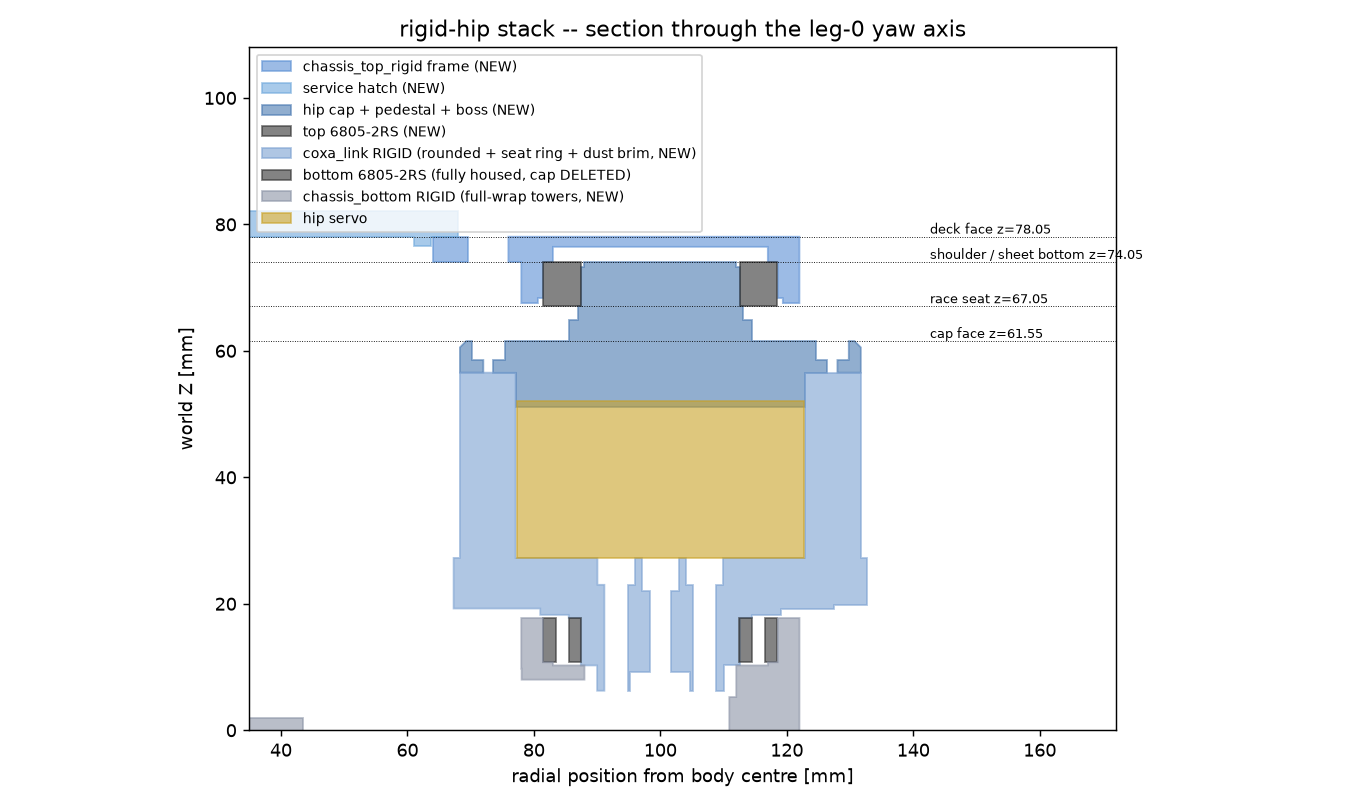
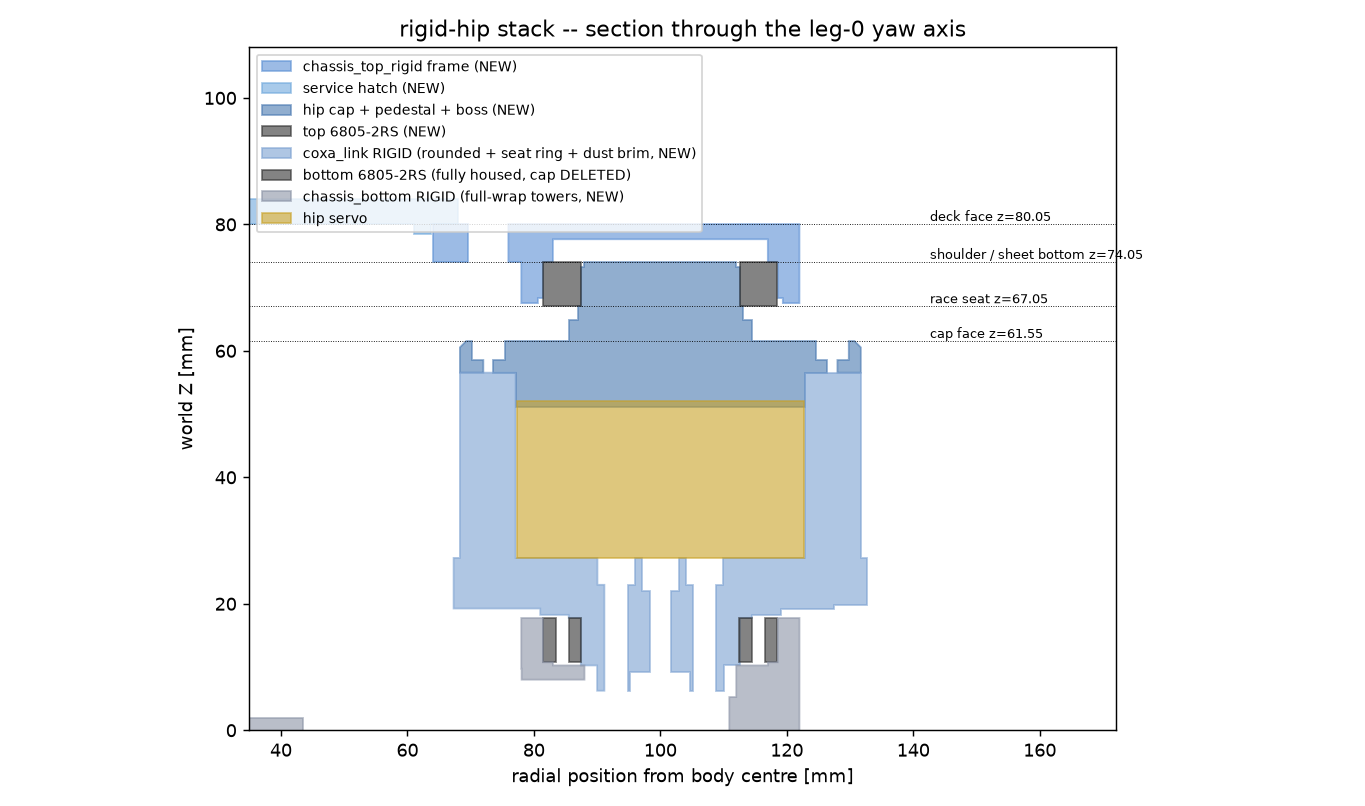
rigid_hip: top sheet 50% thicker (4->6mm) + buildviz mirror staleness guard
With the pillars gone the top plate alone carries the hip-moment
couple, so TOP_PLATE_T goes 4 -> 6 mm (user).  The sheet underside
stays pinned to the race-top plane (74.05, where the pockets seat);
the extra 2 mm grows upward, deck face 78.05 -> 80.05.  The dust roof
scales with it (BR_ROOF_T 1.6 -> 2.4; the rotating boss tip now keeps
3.6 mm of air, roof solid/air probes still asserted 6/6), the hatch
screws grow M3x14 -> M3x16 (lid 4 + sheet 6 + 0.3 air + 5.7 insert),
standoff stacks ~76 -> ~78 mm.  The hatch lid stays 4 mm and the
under-frame insert bosses still attach at the unmoved 74.05 plane.
Femur up-limit re-swept: unchanged at -47.5 deg.

tools/push_cloud_buildviz.py: refuse to mirror a stale push-cache --
if the registered buildDir has a newer scene.json than the cache
(the `register`-without-`push` state that re-shipped a day-old
un-roofed plate to the cloud hub earlier today), fail loudly with
the exact push command to run first.  Verified both paths.

Changed region(s): [[0.3692, 0.2792, 0.5846, 0.3102], [0.6769, 0.2481, 0.7692, 0.3102], [0.1846, 0.2792, 0.3385, 0.3102]]

diff --git a/hexapod_walker/prototype_sts3215/concepts/rigid_hip/make_rigid_hip_variant.py b/hexapod_walker/prototype_sts3215/concepts/rigid_hip/make_rigid_hip_variant.py
@@ -13,7 +13,8 @@ pair.  This variant closes the loop from the TOP:
     interference the lower hub boss already uses) that a third 6805-2RS
     presses onto.  Knee caps stay stock.
   * ``chassis_top_rigid`` -- a SECOND 200 mm flat-to-flat hex plate
-    (same footprint/thickness as chassis_bottom's sheet) whose six
+    (same footprint as chassis_bottom's sheet, 50% thicker at 6 mm
+    since the pillar delete left it alone in the load path) whose six
     Phi 44 bosses pocket the bearings' outer races at Phi 37.15
     (= ``YAW_TOWER_BORE_OD``, the bench-tuned firm finger-press fit),
     race retained by the Phi 34 shoulder (= ``YAW_TOWER_SHOULDER_OD``).
@@ -177,15 +178,26 @@ POCKET_LEADIN = 0.8                       # pocket-mouth lead-in (per side)
 # face -- the whole ring top is one flush surface ("all go up to the
 # same height") and dirt cannot reach the bearing from above.  The
 # roof is thinner than the sheet so the rotating parts keep an air gap
-# under it: tip top 74.05, roof underside 76.45 -> 2.4 mm running
+# under it: tip top 74.05, roof underside 77.65 -> 3.6 mm running
 # clearance (asserted >= BR_ROOF_MIN_CL in check_yaw_sweep).
-BR_ROOF_T = 1.6                           # roof thickness (prints flat on
-                                          # the bed: the plate prints deck
-                                          # face down, so the pocket is now
-                                          # a true blind bore, no bridging)
+BR_ROOF_T = 2.4                           # roof thickness, scaled with the
+                                          # 6 mm sheet (was 1.6 on the 4 mm
+                                          # sheet; prints flat on the bed:
+                                          # the plate prints deck face down,
+                                          # so the pocket is a true blind
+                                          # bore, no bridging)
 BR_ROOF_MIN_CL = 0.5                      # min rotating-vs-roof air gap
 
-PLATE_T = hp.CHASSIS_PLATE_T              # 4 -- same sheet as chassis_bottom
+PLATE_T = hp.CHASSIS_PLATE_T              # 4 -- bottom sheet + hatch lid
+# TOP PLATE 50% THICKER (user, Aug 26 pm, after the pillar delete: "make
+# it say 50% thicker now that the pillars are gone").  With no rim
+# pillars the top plate alone carries the hip-moment couple between the
+# six bearing towers, so the sheet goes 4 -> 6 mm.  The sheet UNDERSIDE
+# is pinned to the race-top/shoulder plane (74.05, that is where the
+# pockets seat), so the extra 2 mm grows UPWARD: deck face 78.05 ->
+# 80.05.  The hatch LID stays at PLATE_T = 4 (it is not in the bearing
+# load path; keeping it thin keeps the lid light and the screws short).
+TOP_PLATE_T = 1.5 * hp.CHASSIS_PLATE_T    # 6 -- top frame sheet only
 CENTRE_HOLE_D = 40.0                      # wiring / standoff-wrench access
 HOLE_D = hp.BRACKET_BOLT_HOLE             # 3.4 -- M3 clearance
 ACCESS_HOLE_D = 7.0                       # driver pass-through above the
@@ -236,8 +248,8 @@ HATCH_EAR_OD = 9.0                        # round lid ears around the screws:
 # bosses hanging under the frame sheet at the hatch-screw stations.
 # The insert installs from BELOW, so screw tension pulls it against
 # the sheet (compression -- the strong direction).  Screw stack: lid 4
-# + sheet 4 + 0.3 air + 5.7 insert = M3x14, tip flush at the boss
-# bottom.
+# + sheet 6 + 0.3 air + 5.7 insert = M3x16, tip flush at the boss
+# bottom.  (Was M3x14 on the 4 mm sheet.)
 INSERT_BORE_OD = 4.0                      # install bore for the M3 insert
 INSERT_LEN = 5.7                          # insert length (flush at the
                                           # boss BOTTOM face)
@@ -655,7 +667,7 @@ BR_BOT_W = CAP_FACE_W + PED_H             # 67.05 -- race bottom / seat
 BR_TOP_W = BR_BOT_W + BEARING_W           # 74.05 -- race top / shoulder
 RING_BOT_W = BR_BOT_W + RING_BOT_CL       # 67.55 -- ring bottom face
 SHEET_Z0 = BR_TOP_W                       # sheet bottom = race top plane
-SHEET_Z1 = SHEET_Z0 + PLATE_T             # 78.05 -- deck face
+SHEET_Z1 = SHEET_Z0 + TOP_PLATE_T         # 80.05 -- deck face (6 mm sheet)
 
 APOTHEM = hp.CHASSIS_FLAT_TO_FLAT / 2.0   # 100 -- yaw axes sit ON this line
 
@@ -1059,7 +1071,7 @@ def check_static(meshes: dict[str, trimesh.Trimesh]) -> None:
         "frame insert boss missing under a hatch screw"
     assert not frame.contains(np.asarray(p_air)).any(), \
         "frame insert boss pokes past the opening wall (lip collision)"
-    print(f"  hatch screws: 6x M3x14 into Phi {INSERT_BORE_OD:g} insert "
+    print(f"  hatch screws: 6x M3x16 into Phi {INSERT_BORE_OD:g} insert "
           f"bores in Phi {FRAME_BOSS_OD:g} under-frame bosses "
           f"(bore wall to opening {HATCH_SCREW_RHO - INSERT_BORE_OD / 2.0 - open_vertex_r:.2f} mm)")
     # A Phi 6.5 driver shaft dropped through the L0 hole down to the cap

diff --git a/hexapod_walker/prototype_sts3215/tools/push_cloud_buildviz.py b/hexapod_walker/prototype_sts3215/tools/push_cloud_buildviz.py
@@ -81,7 +81,28 @@ def main() -> int:
     build_dir = CACHE / args.build_id
     meta = json.loads((build_dir / "meta.json").read_text())
     version = meta.get("defaultVersion", "main")
-    scene = json.loads((build_dir / "scene.json").read_text())
+    scene_file = build_dir / "scene.json"
+    scene = json.loads(scene_file.read_text())
+
+    # Staleness guard (incident 2026-08-26: `buildviz register` serves the
+    # live buildDir but does NOT refresh this push-cache, so the mirror
+    # re-shipped a day-old snapshot).  If the registered buildDir has a
+    # newer scene.json than the cache, refuse to mirror the stale copy.
+    registry = BUILDVIZ_HOME / "registry.json"
+    if registry.exists():
+        for entry in json.loads(registry.read_text()).get("builds", []):
+            if entry.get("id") != args.build_id:
+                continue
+            live = Path(entry.get("buildDir", "")) / "scene.json"
+            if live.exists() and \
+                    live.stat().st_mtime > scene_file.stat().st_mtime + 1.0:
+                print(f"push_cloud_buildviz: cache for '{args.build_id}' is "
+                      f"STALE -- the registered buildDir has a newer "
+                      f"scene.json ({live}).\nRun `npx buildviz push "
+                      f"--build-id {args.build_id} --upload-assets --scene "
+                      f"{live}` first, then re-run this mirror.",
+                      file=sys.stderr)
+                return 1
 
     assets = []
     for mesh in scene.get("meshes", []):

diff --git a/hexapod_walker/prototype_sts3215/concepts/rigid_hip/README.md b/hexapod_walker/prototype_sts3215/concepts/rigid_hip/README.md
@@ -10,14 +10,18 @@ servo — is a cantilever.  This variant closes the structure from the top:
   press boss that a **third 6805-2RS** presses onto.  The boss lands on
   solid flange-bar material, >9 mm clear of the cap's M3 counterbores.
   Knee caps stay stock.
-* **`chassis_top_rigid`** (print 1): a second 200 mm flat-to-flat, 4 mm
-  hex FRAME (same footprint/thickness as chassis_bottom's sheet).  Six
+* **`chassis_top_rigid`** (print 1): a second 200 mm flat-to-flat hex
+  FRAME, **6 mm thick — 50% thicker than chassis_bottom's 4 mm sheet**
+  (user, Aug 26 pm, after the pillar delete: with no rim columns the
+  plate alone carries the hip-moment couple, so it grows 4 → 6; the
+  underside stays pinned to the race-top plane at 74.05 and the extra
+  2 mm grows upward, deck face 78.05 → 80.05).  Six
   Φ44 full-height bosses pocket the bearings' outer races from below at
   Φ37.15, each race retained by a complete 360° Φ34 shoulder, and each
-  bearing sealed from above by a **1.6 mm integral dust roof** flush
+  bearing sealed from above by a **2.4 mm integral dust roof** flush
   with the deck (user, Aug 26: the whole ring top is one continuous
   surface; the roof is thinner than the sheet so the rotating boss tip
-  keeps a 2.4 mm air gap under it).  A large
+  keeps a 3.6 mm air gap under it).  A large
   hex chunk of the middle (128 mm across flats) is cut out for the
   service hatch; the 140 mm `chassis_top` is not used in this variant.
 * **`top_hatch_rigid`** (print 1): a removable 4 mm hex lid over the
@@ -467,7 +471,7 @@ build had.
 | hip axis | 49.65 | 44.65 | **39.65** |
 | hip cap face | 71.55 | 66.55 | **61.55** |
 | top-plate race seat | 77.05 | 72.05 | **67.05** |
-| top sheet | 84.05..88.05 | 79.05..83.05 | **74.05..78.05** |
+| top sheet | 84.05..88.05 (4 mm) | 79.05..83.05 (4 mm) | **74.05..80.05 (6 mm since Aug 26)** |
 
 The horn mount interface AT the horn is untouched: same bolt
 pattern, same tip depths, same engagement — the head-access shafts
@@ -482,7 +486,7 @@ inside the seat ring + brim envelope, and the slab-to-rim clearance.
 Everything above rides down with the cradle (14 mm total vs the
 production-coxa stack, 5 mm vs the M3×25 build): hip axis 53.65 →
 49.65 → 44.65 → **39.65**, hip cap face → **61.55**, top-plate race
-seat → **67.05**, sheet → **74.05..78.05**.
+seat → **67.05**, sheet → **74.05..80.05** (6 mm since Aug 26).
 The robot's top deck drops 14 mm vs the pre-shortening build
 — a shorter, stiffer sandwich (same members, less column length).
 
@@ -494,8 +498,8 @@ The robot's top deck drops 14 mm vs the pre-shortening build
 | 67.05 | pedestal top = inner-race seat |
 | 67.55 | plate ring bottom (0.5 clearance over the race seat) |
 | 74.05 | race top = Φ34 shoulder = sheet bottom = boss tip top |
-| 76.45 | dust-roof underside (2.4 mm air over the rotating tip) |
-| 78.05 | deck face = dust-roof top (flush, one continuous surface) |
+| 77.65 | dust-roof underside (3.6 mm air over the rotating tip) |
+| 80.05 | deck face = dust-roof top (flush; the 6 mm sheet grows UP from the pinned 74.05 underside) |
 
 (All five planes are 14 mm lower than the pre-shortening build — 4 mm
 from the rev-3 skirt/platform delete, 5 mm from the Aug-24 M3×25
@@ -517,7 +521,7 @@ the bearing rings are):
 * **Lid**: 4 mm hex (136 across flats) sitting ON the deck face with a
   1.5 mm registration lip dropping just inside the opening (0.3 mm/side
   clearance — straight drop-in verified at build time).
-* **Retention**: 6× M3×14 button-heads that pass through the lid AND
+* **Retention**: 6× M3×16 button-heads that pass through the lid AND
   the frame sheet into **brass heat-set inserts in Φ10 bosses under
   the frame** (user, Aug 26: the lid comes off "a lot", so no screw
   ever cycles a printed thread — steel-into-brass survives unlimited
@@ -536,9 +540,10 @@ the bearing rings are):
   drop-in clearance — probed), and takes its insert **from below**:
   screw tension then pulls the insert *against* the sheet
   (compression, the strong direction) instead of along its knurl.
-  Stack: lid 4 + sheet 4 + 0.3 air + 5.7 insert = **M3×14**, tip
-  flush with the boss bottom.  The Φ9 lid ears cover the hole where
-  the bare lid corner (78.52) falls short.
+  Stack: lid 4 + sheet 6 + 0.3 air + 5.7 insert = **M3×16**, tip
+  flush with the boss bottom (was M3×14 on the 4 mm sheet).  The Φ9
+  lid ears cover the hole where the bare lid corner (78.52) falls
+  short.
 * **Interior access** = remove 10 screws (6 perimeter + 4 standoff)
   and lift the lid — the frame, bearings and legs are untouched.  The
   disc-horn clamp screws under the rings still need the full
@@ -657,8 +662,8 @@ variation only moves parts that stay outboard/below the plate.
   deck-level tower ledges
 * **−6 `yaw_bearing_cap` prints and −18 M3×8 cap join screws** — the
   cap is deleted (see "One tower-seated bottom bearing")
-* 4× M3 standoff stacks, ~76 mm (bottom sheet top z≈2 → hatch underside
-  78.05; e.g. 40+36 F-F, or M3 threaded rod in printed sleeves) + M3
+* 4× M3 standoff stacks, ~78 mm (bottom sheet top z≈2 → hatch underside
+  80.05; e.g. 40+38 F-F, or M3 threaded rod in printed sleeves) + M3
   screws down through the hatch into the stack tops — **non-structural**
   in this variant (hatch/electronics anchors only)
 * **6× M3 brass heat-set inserts** (~5.7 mm long, e.g. Ruthex RX-M3
@@ -666,8 +671,8 @@ variation only moves parts that stay outboard/below the plate.
   bosses — printed Φ4.0 through-bores with melt-relief counterbores;
   install from BELOW with a soldering iron (~230 °C for PETG) with
   the frame flipped on the bench, flush with the boss bottom face
-* 6× M3×14 button-heads for the hatch perimeter (through lid + frame
-  into the frame-boss inserts; lid 4 + sheet 4 + 0.3 air + 5.7
+* 6× M3×16 button-heads for the hatch perimeter (through lid + frame
+  into the frame-boss inserts; lid 4 + sheet 6 + 0.3 air + 5.7
   engagement — the tip lands flush with the boss bottom)
 * **NO pillar hardware** (pillars deleted Aug 26): the 6 corner
   pillar prints, 18× M3×12 + nylocs, 6× M3×10 frame screws and 6 of
@@ -719,7 +724,7 @@ variation only moves parts that stay outboard/below the plate.
    are lead-in chamfered; descent path verified clear at build time),
    press until the shoulders touch the race tops.
 5. Drop `top_hatch_rigid` into the frame opening (lip registers), drive
-   the 6 perimeter M3×14s into the frame-boss inserts and the 4
+   the 6 perimeter M3×16s into the frame-boss inserts and the 4
    standoff screws.
 
 ## Disassembly & service — the cap is a captive bearing carrier
